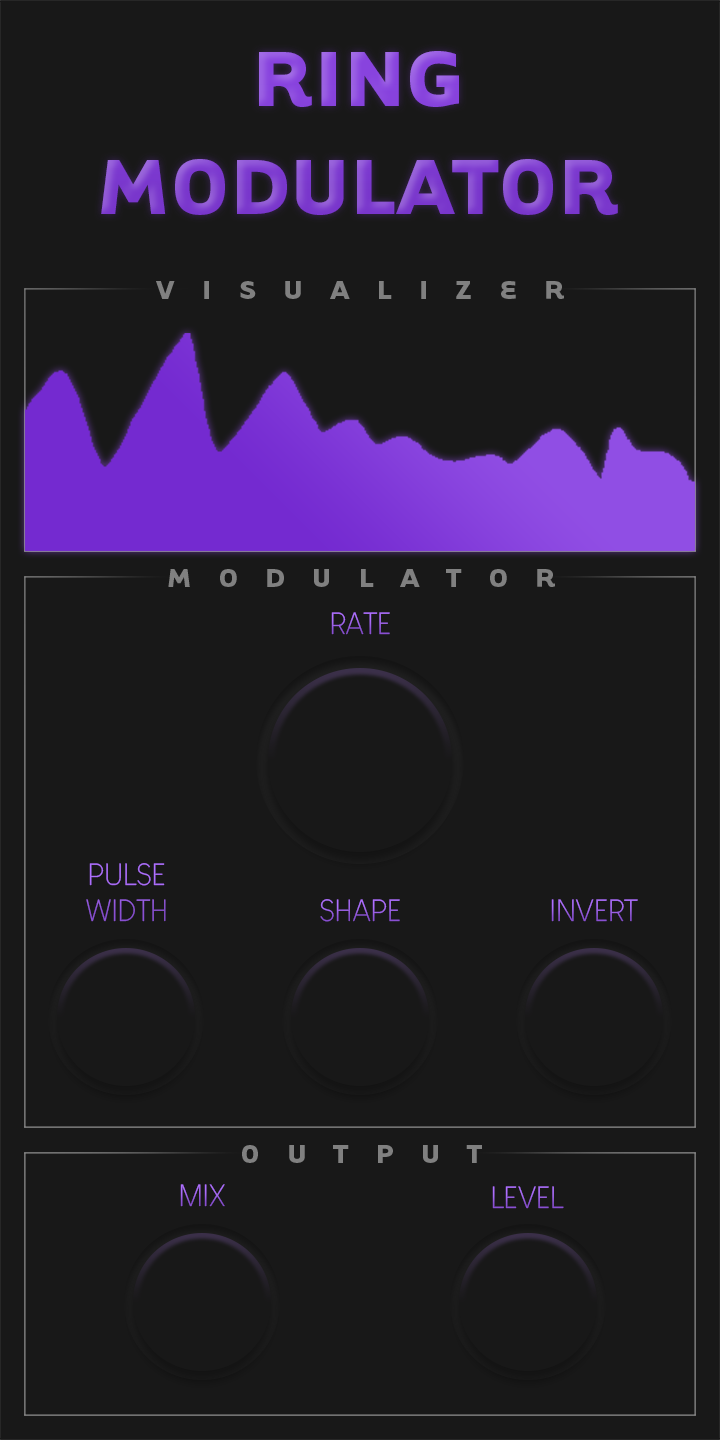
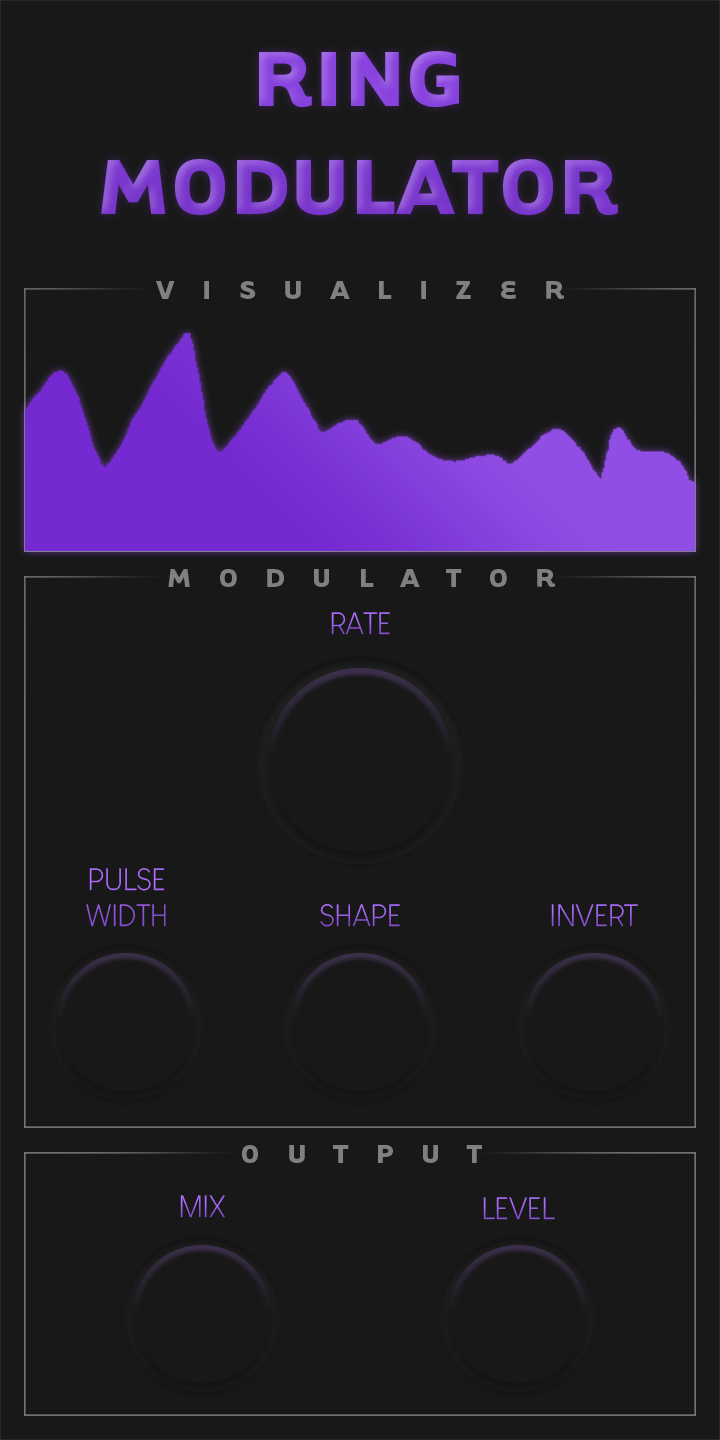
Update background image, position output sliders correctly w/ updated ratios (todo: style later)

diff --git a/Source/PluginEditor.cpp b/Source/PluginEditor.cpp
@@ -17,13 +17,17 @@ RingModulatorAudioProcessorEditor::RingModulatorAudioProcessorEditor (RingModula
 {
     // GUI variables
     int textBoxWidth = 80;
-    int textBoxHeight = 15;
+    int textBoxHeight = 20;
 
     // set aspect ratio and dimensions accordingly
     double ratio = 0.5;
     setResizeLimits(360, 360 / ratio, 540, 540 / ratio);
     getConstrainer()->setFixedAspectRatio(ratio);
     setSize (480, 480 / ratio);
+
+    // handle open gl initializing
+    glContext.setComponentPaintingEnabled(true);
+    glContext.attachTo(*this);
 
     // SLIDERS =================================================================
 
@@ -36,12 +40,12 @@ RingModulatorAudioProcessorEditor::RingModulatorAudioProcessorEditor (RingModula
     levelSlider.setSliderStyle(Slider::RotaryHorizontalVerticalDrag);
 
     // set textbox styles
-    modulationRate.setTextBoxStyle(Slider::TextBoxBelow, false, textBoxWidth, textBoxHeight);
-    modulationWaveformSlider.setTextBoxStyle(Slider::TextBoxBelow, false, textBoxWidth, textBoxHeight);
-    modulationPulseWidthSlider.setTextBoxStyle(Slider::TextBoxBelow, false, textBoxWidth, textBoxHeight);
+    modulationRate.setTextBoxStyle(Slider::NoTextBox, false, textBoxWidth, textBoxHeight);
+    modulationWaveformSlider.setTextBoxStyle(Slider::NoTextBox, true, textBoxWidth, textBoxHeight);
+    modulationPulseWidthSlider.setTextBoxStyle(Slider::NoTextBox, false, textBoxWidth, textBoxHeight);
     
-    mixSlider.setTextBoxStyle(Slider::TextBoxBelow, false, textBoxWidth, textBoxHeight);
-    levelSlider.setTextBoxStyle(Slider::TextBoxBelow, false, textBoxWidth, textBoxHeight);
+    mixSlider.setTextBoxStyle(Slider::NoTextBox, false, textBoxWidth, textBoxHeight);
+    levelSlider.setTextBoxStyle(Slider::NoTextBox, false, textBoxWidth, textBoxHeight);
 
     // set text value suffixes
     modulationRate.setTextValueSuffix(" Hz");
@@ -85,44 +89,6 @@ RingModulatorAudioProcessorEditor::RingModulatorAudioProcessorEditor (RingModula
     {
         processor.changeModulationInversionFactor(modulationInversionButton.getToggleState());
     };
-
-    // LABELS ==================================================================
-
-    // set label text values
-    modulationRateLabel.setText("rate", NotificationType::dontSendNotification);
-    modulationWaveformLabel.setText("shape", NotificationType::dontSendNotification);
-    modulationInversionLabel.setText("invert", NotificationType::dontSendNotification);
-    modulationPulseWidthLabel.setText("pulse width", NotificationType::dontSendNotification);
-
-    mixLabel.setText("mix", NotificationType::dontSendNotification);
-    levelLabel.setText("level", NotificationType::dontSendNotification);
-
-    // attach labels to components
-    modulationRateLabel.attachToComponent(&modulationRate, false);
-    modulationWaveformLabel.attachToComponent(&modulationWaveformSlider, false);
-    modulationInversionLabel.attachToComponent(&modulationInversionButton, false);
-    modulationPulseWidthLabel.attachToComponent(&modulationPulseWidthSlider, false);
-
-    mixLabel.attachToComponent(&mixSlider, false);
-    levelLabel.attachToComponent(&levelSlider, false);
-
-    // set label justification types
-    modulationRateLabel.setJustificationType(Justification::centredTop);
-    modulationWaveformLabel.setJustificationType(Justification::centredBottom);
-    modulationInversionLabel.setJustificationType(Justification::centredTop);
-    modulationPulseWidthLabel.setJustificationType(Justification::centredBottom);
-
-    mixLabel.setJustificationType(Justification::centredTop);
-    levelLabel.setJustificationType(Justification::centredTop);
-
-    // add all labels
-    addAndMakeVisible(&modulationRateLabel);
-    addAndMakeVisible(&modulationWaveformLabel);
-    addAndMakeVisible(&modulationInversionLabel);
-    addAndMakeVisible(&modulationPulseWidthLabel);
-
-    addAndMakeVisible(&mixLabel);
-    addAndMakeVisible(&levelLabel);
     
     // ONVALUECHANGE DEFINITIONS ========================================
 
@@ -155,12 +121,15 @@ RingModulatorAudioProcessorEditor::RingModulatorAudioProcessorEditor (RingModula
 
 RingModulatorAudioProcessorEditor::~RingModulatorAudioProcessorEditor()
 {
+    // handle gl context
+    glContext.detach();
 }
 
 //==============================================================================
 void RingModulatorAudioProcessorEditor::paint (Graphics& g)
 {
-    // get background image and apply as background
+    // draw background image (this method allows for dynamic resizing)
+    Image backgroundImage = ImageCache::getFromMemory(BinaryData::background_png, BinaryData::background_pngSize);
     g.drawImage(backgroundImage, getLocalBounds().toFloat());
 }
 
@@ -169,26 +138,36 @@ void RingModulatorAudioProcessorEditor::resized()
     // get canvas
     auto area = getLocalBounds();
 
-    // handle header / footer area
-    auto margin = area.getHeight() * 0.25;
-    area.removeFromTop(margin / 3.0);
-    area.removeFromBottom(margin / 3.0);
+    // set layout variables 
+    auto margin = getWidth() * 1 / 30;
+    auto sectionSize = getHeight() / 5;
+    auto largeDialSize = getWidth() * 23 / 90;
+    auto smallDialSize = getWidth()  * 13 / 60;
 
-    // dimension and layout variables
-    int dialWidth = area.getWidth() / 5.6;
-    int quarterWidth = area.getWidth() / 4;
+    // remove margins from sides
+    area.removeFromLeft(margin);
+    area.removeFromRight(margin);
 
-    // position sliders
-    auto tempArea = area.removeFromLeft(quarterWidth);
-    modulationRate.setBounds(tempArea.removeFromTop(tempArea.getHeight() / 2));
-    tempArea.removeFromTop(margin / 3.0);
-    modulationPulseWidthSlider.setBounds(tempArea);
+    // OUTPUT ==================================================================
+   
+    // designate area for drawing output's parameters' sliders
+    auto outputArea = area.removeFromBottom(sectionSize);
+    outputArea.removeFromBottom(margin * 2);
+    outputArea = outputArea.removeFromBottom(outputArea.getHeight() * 13 / 21);
 
-    tempArea = area.removeFromLeft(quarterWidth);
-    modulationWaveformSlider.setBounds(tempArea.removeFromBottom(area.getHeight() / 2));
-    tempArea.removeFromTop(margin / 3.0);
-    modulationInversionButton.setBounds(tempArea.removeFromBottom(area.getHeight() / 2));
-    
-    levelSlider.setBounds(area.removeFromLeft(quarterWidth));
-    mixSlider.setBounds(area.removeFromLeft(quarterWidth));
+    // MIX
+    outputArea.removeFromLeft(getWidth() * 5 / 36);
+    mixSlider.setBounds(outputArea.removeFromLeft(smallDialSize));
+
+    // LEVEL
+    outputArea.removeFromRight(getWidth() * 5 / 36);
+    levelSlider.setBounds(outputArea.removeFromRight(smallDialSize));
+
+    // MODULATOR ===============================================================
+
+    // designate area for drawing modulator's parameters' sliders
+    auto modulatorArea = area.removeFromBottom(sectionSize * 2);
+    modulatorArea.removeFromBottom(margin * 2);
+
+    // ... 
 }

diff --git a/Source/PluginEditor.h b/Source/PluginEditor.h
@@ -37,6 +37,9 @@ private:
     // Reference to value tree state for quick access
     AudioProcessorValueTreeState& valueTreeState;
 
+    // for better rendering
+    OpenGLContext glContext;
+
     // slider declarations for parameters
     Slider levelSlider;
     Slider mixSlider;
@@ -47,14 +50,6 @@ private:
     // buttons for modulator inversion
     ToggleButton modulationInversionButton;
 
-    // declare labels
-    Label levelLabel;
-    Label mixLabel;
-    Label modulationRateLabel;
-    Label modulationWaveformLabel;
-    Label modulationInversionLabel;
-    Label modulationPulseWidthLabel;
-
     // attachment declarations
     std::unique_ptr<SliderAttachment> levelAttachment;
     std::unique_ptr<SliderAttachment> mixAttachment;
@@ -62,9 +57,6 @@ private:
     std::unique_ptr<SliderAttachment> modulationWaveformAttachment;
     std::unique_ptr<ButtonAttachment> modulationInversionAttachment;
     std::unique_ptr<SliderAttachment> modulationPulseWidthAttachment;
-
-    // assets and images
-    Image backgroundImage = ImageCache::getFromMemory(BinaryData::background_png, BinaryData::background_pngSize);
 
     JUCE_DECLARE_NON_COPYABLE_WITH_LEAK_DETECTOR (RingModulatorAudioProcessorEditor)
 };
